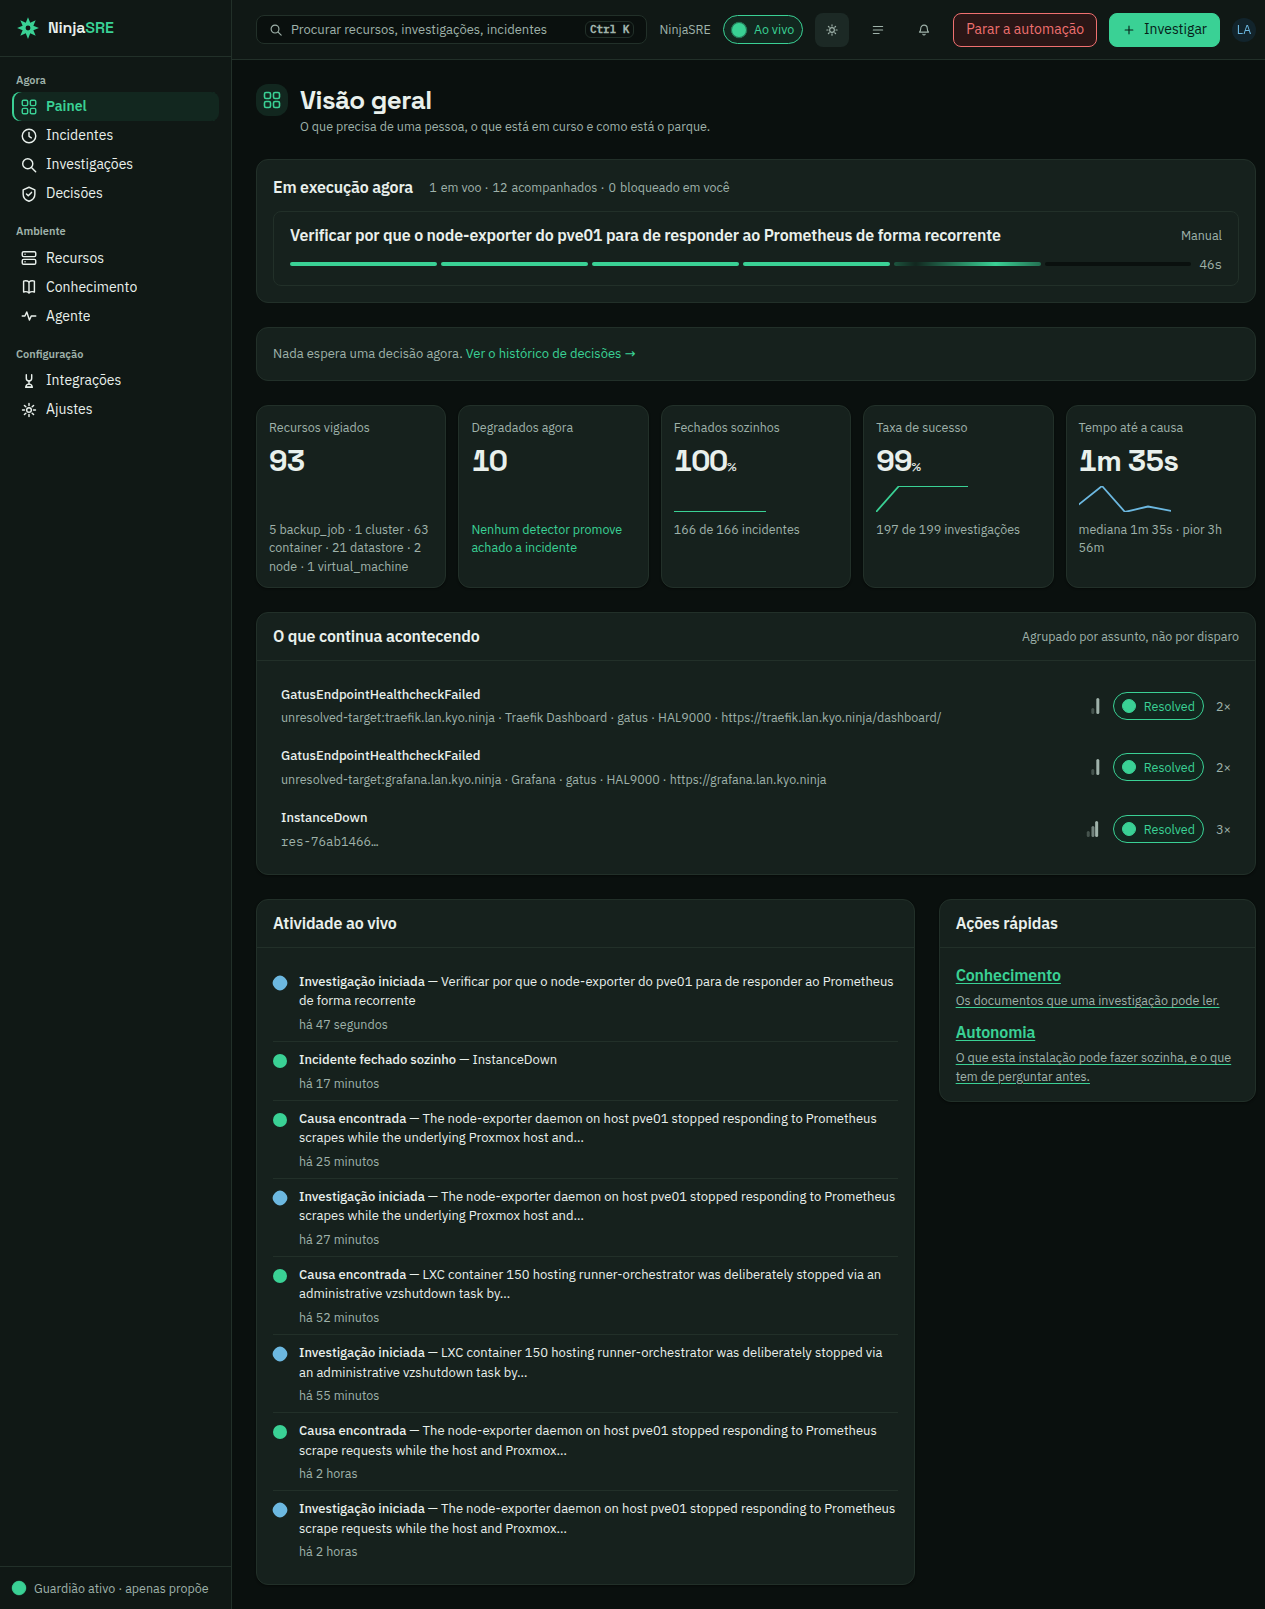
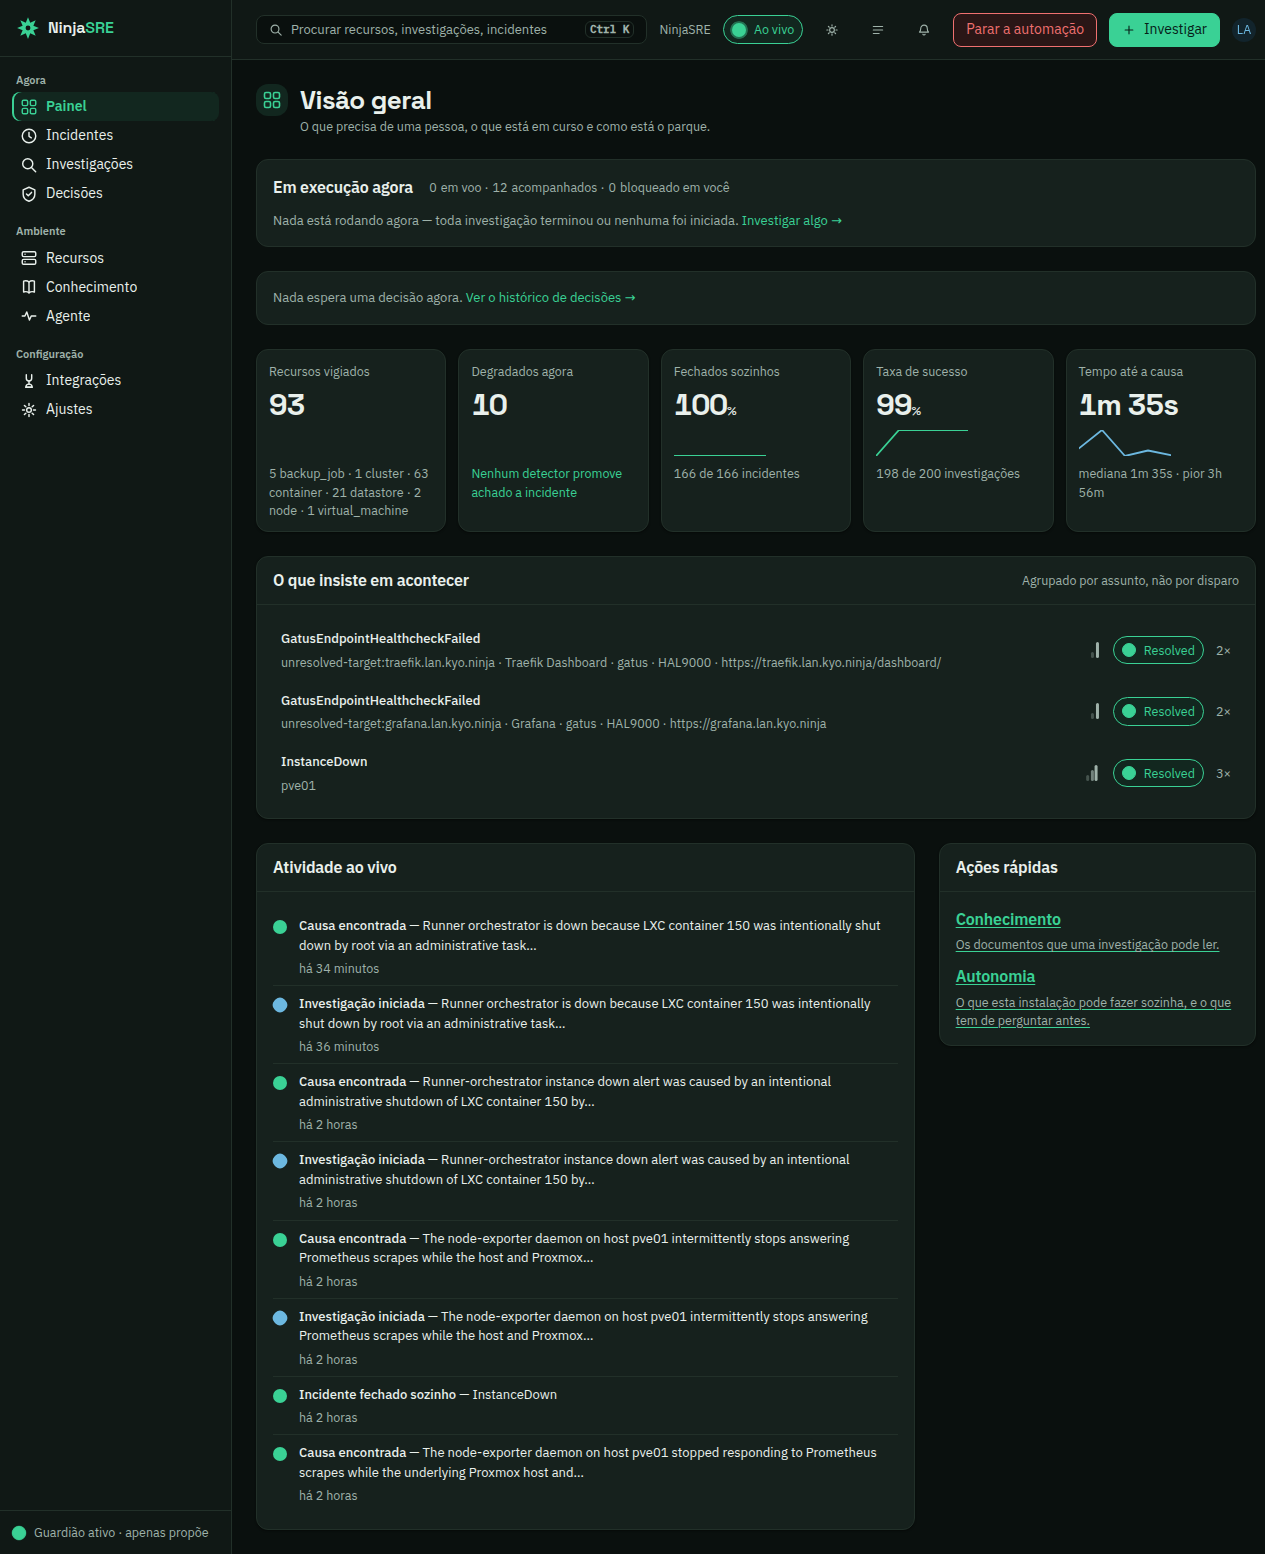
docs(specs): record the S3 visual gate as CONFORME and the staging evidence behind it
Both deviations this gate found are closed and re-checked on the live screen
rather than in the source: the recurring panel carries the board's wording,
and a scan of the whole Painel returns no raw identifier.

Keeps the two live-card captures under their own names. The final pair has no
running card because the slot's one permitted run had finished, and a second
was not opened to make a nicer picture.

Claude-Session: https://claude.ai/code/session_01U2LvfDxXmuEAZz6MpEJBHE

diff --git a/specs_v8/050-painel-vivo/evidence/visual/VEREDITO.md b/specs_v8/050-painel-vivo/evidence/visual/VEREDITO.md
@@ -1,76 +1,92 @@
 # Veredito visual — 050 Painel vivo, slot S3
 
 Feito no Orca Browser contra o staging (`https://stg-ninjasre.lan.kyo.ninja/`),
-depois do deploy dos três componentes e das rotas aquecidas, com um run vivo
-na tela. Locale pt-BR, escolhido pelo cookie `ninjasre_locale` — que é como um
-leitor troca de idioma, e o que `requestLocale` prefere sobre o
-`accept-language`. O `DEFAULT_LOCALE` do console é `en`, então a primeira
-renderização em inglês era o comportamento correto e não um defeito.
+depois do deploy dos três componentes, do rollout confirmado por listagem de
+pods e das nove rotas aquecidas autenticadas. Locale pt-BR, escolhido pelo
+cookie `ninjasre_locale` — que é como um leitor troca de idioma, e o que
+`requestLocale` prefere sobre o `accept-language`. O `DEFAULT_LOCALE` do
+console é `en`, então a primeira renderização em inglês era comportamento
+correto e não defeito.
 
 | Tela | Tema | Veredito |
 |---|---|---|
-| `/` | dark | **DESVIO** — um, nomeado abaixo. Todo o resto confere. |
-| `/` | light | **DESVIO** — o mesmo, e nada além dele. |
+| `/` | dark | **CONFORME** |
+| `/` | light | **CONFORME** |
 
-## O desvio
+Os dois desvios que este gate encontrou foram corrigidos e reconferidos na
+tela viva, não no código.
 
-**"O que continua acontecendo" onde o board manda "O que insiste em acontecer".**
+## O que este gate achou, e a suíte verde não
 
-O board diz a frase nos dois artboards (`Main.dc.html`, `DashboardLight.dc.html`).
-A própria spec da 050 a repete sete vezes, entre elas a AN-11 e a SC-006. O
-console desenhava outra, e nada em `DIVERGENCIAS.md` registra a troca — e
-desvio sem registro aprovado é FAIL de slot pelo §3 do `EXECUCAO.md`.
+**1. "O que continua acontecendo" onde o board manda "O que insiste em
+acontecer".** Os dois artboards dizem a frase; a própria spec a repete sete
+vezes, entre elas a AN-11 e a SC-006. Nada em `DIVERGENCIAS.md` registrava a
+troca, e desvio sem registro é FAIL de slot pelo §3 do `EXECUCAO.md`.
 
-Passou por baixo da suíte porque **nenhum teste afirma o nome da seção**: a
-AN-11 e as vizinhas localizam o painel por `data-testid`. A suíte ficava verde
-enquanto a tela dizia outra coisa — a mesma família de "medir nada" que esta
-onda vem encontrando.
+Passou por baixo da suíte porque **nenhum teste afirmava o nome da seção** —
+localizavam o painel por `data-testid`. E, mais fundo: `playwright.config.ts:40`
+fixa `locale: 'en-GB'`, então **nenhum teste e2e conseguia ver uma string em
+pt-BR**, enquanto o board é inteiramente pt-BR. A superfície de conformidade
+com o artboard era invisível ao Playwright por construção. Isso é achado de
+onda, não da 050, e está no confronto.
 
-O comentário de seção do próprio catálogo pt-BR, na linha 599, ainda diz
-"O que insiste em acontecer". A string embaixo dele discordava do seu próprio
-cabeçalho.
+Corrigido em `pt-BR.ts:800`; asserção nova em `painel-vivo.acceptance.spec.ts`
+com controle negativo nos dois sentidos.
 
-Corrigido pelo lead em `pt-BR.ts:800`, como dono do single-write de i18n no
-merge. A asserção sobre o título existe agora — `console/tests/e2e/
-painel-vivo.acceptance.spec.ts` (commit `ec1d8336`), o teste
-`'AN-11: the panel is named "O que insiste em acontecer", in the board's own
-words'`: troca para o cookie `ninjasre_locale=pt-BR`, abre `/` e lê o `<h3>`
-de nível 3 dentro de `data-testid="recurring-problems"`, sem guarda de skip
-— uma janela sem recorrências ainda renderiza o cabeçalho, então o teste
-segue sendo uma asserção real mesmo vazia. É exatamente o que falhava antes
-dela existir: com a grafia antiga restaurada a alegação falha citando o
-`<h3>` que de fato encontrou, e o portão não pode mais fechar verde com o
-nome errado. O par em inglês fica como está: o item 6 do `DIVERGENCIAS.md`
-deixa o inglês livre.
+**2. Identificador cru como texto de linha.** A linha do `InstanceDown` lia
+`res-76ab1466…`. O primeiro reparo resolveu o nome do estate e ela passou a
+ler `pve01 · res-76ab1466…` — e a AN-12 **ficou verde**, porque seu regex era
+ancorado em `^res-` e o `pve01` entrou na frente.
+
+Isso não fechava nada. A **SC-007** proíbe o padrão em *qualquer texto visível*
+do Painel, e a **FR-024** diz que o identificador interno aparece *no máximo
+como tooltip, nunca como texto da linha*. O teste tinha ficado verde porque o
+defeito andou de lado.
+
+Achado lendo a tela depois do deploy, não rodando a suíte. Segundo reparo: com
+`isOpaque(subject)` — condicionado assim para não quebrar a 060, que afirma
+`toContainText('ct-102')` no mesmo componente compartilhado — a linha passa a
+mostrar só o nome, e o id vive apenas no `title`. A asserção foi reescrita para
+a redação real da SC-007: sem âncora, sobre o texto visível do Painel.
+
+Reconferido na tela viva: **zero ocorrências** de `res-[0-9a-f]{8}` e zero de
+hex ≥16 no snapshot inteiro. A linha lê `InstanceDown · pve01`. As demais
+linhas mantiveram suas cadeias de metadados intactas — o conserto não decepou
+metadado por atacado.
 
 ## O que confere
 
-- Todas as seções que a spec nomeia estão lá e com dado real, nos dois temas:
-  a banda de execução com cartão vivo, a banda "Precisa de você", os cinco KPIs
-  com valor, sparkline e legenda de decomposição, o agrupamento por assunto e a
-  linha do tempo de atividade ao vivo.
-- Os seis segmentos de estágio da AN-03 aparecem no cartão vivo, com o atual
-  distinto do concluído e do futuro — visível nas duas capturas.
-- O cartão é titulado pelo objetivo digitado, palavra por palavra: a alegação
-  da 020 vista na tela, não no banco.
-- O chip de frescor foi apanhado nos dois estados entre as duas capturas
-  ("Ao vivo" e "Atualizando").
+- Todas as seções que a spec nomeia, com dado real, nos dois temas: banda de
+  execução, "Precisa de você", os cinco KPIs com valor, sparkline e legenda de
+  decomposição, o agrupamento por assunto e a atividade ao vivo.
+- Os seis segmentos de estágio da AN-03 no cartão vivo, com o atual distinto do
+  concluído e do futuro — em `dashboard-{dark,light}-live-run.png`.
+- O cartão titulado pelo objetivo digitado, palavra por palavra: a alegação da
+  020 vista na tela.
+- O chip de frescor apanhado nos dois estados entre as capturas.
 
 ## Observações que não são defeitos desta feature
 
-- Os chips de assunto dizem "Resolved" num console em pt-BR. É deliberado e
+- Os chips de assunto dizem "Resolved" num console pt-BR. É deliberado e
   documentado: `status.tsx:192` diz que o `Badge` é "o único chip que carrega
   uma palavra que o deployment escreveu, não uma que este console escolheu".
   Vale decisão do operador só porque a mesma palavra sai "Resolvido" em
-  `/incidents` — duas telas nomeando uma coisa de dois jeitos.
+  `/incidents`.
 - `dashboard.kpi.sparkline.label` é `'Tendência de {count} dias'`, então com
   `count=1` anuncia "Tendência de 1 dias". É nome acessível da sparkline, não
-  texto desenhado, então não afeta a comparação com o artboard — mas é erro de
-  concordância de verdade, numa chave da própria 050.
+  texto desenhado — não afeta a comparação com o artboard, mas é erro de
+  concordância numa chave da própria 050.
 
 ## Evidência
 
-- `dashboard-dark.png` — `/`, tema escuro, run vivo aos 46s
-- `dashboard-light.png` — `/`, tema claro, run vivo aos 26s
+| Arquivo | O que mostra |
+|---|---|
+| `dashboard-dark.png` | `/`, escuro, estado final pós-reparos |
+| `dashboard-light.png` | `/`, claro, estado final pós-reparos |
+| `dashboard-dark-live-run.png` | `/`, escuro, com o run vivo aos 46s e os seis segmentos |
+| `dashboard-light-live-run.png` | `/`, claro, com o run vivo aos 26s |
 
-Ambas com o run `0a8e5cb259614ac7baeaaea1bc0566e8`, o único criado no slot.
+As duas com cartão vivo trazem o run `0a8e5cb259614ac7baeaaea1bc0566e8`, o
+único criado no slot. As duas finais não têm cartão porque ele terminou — e o
+§4 do `EXECUCAO.md` dá um run por slot, então não se abre outro para render
+uma captura mais bonita.
